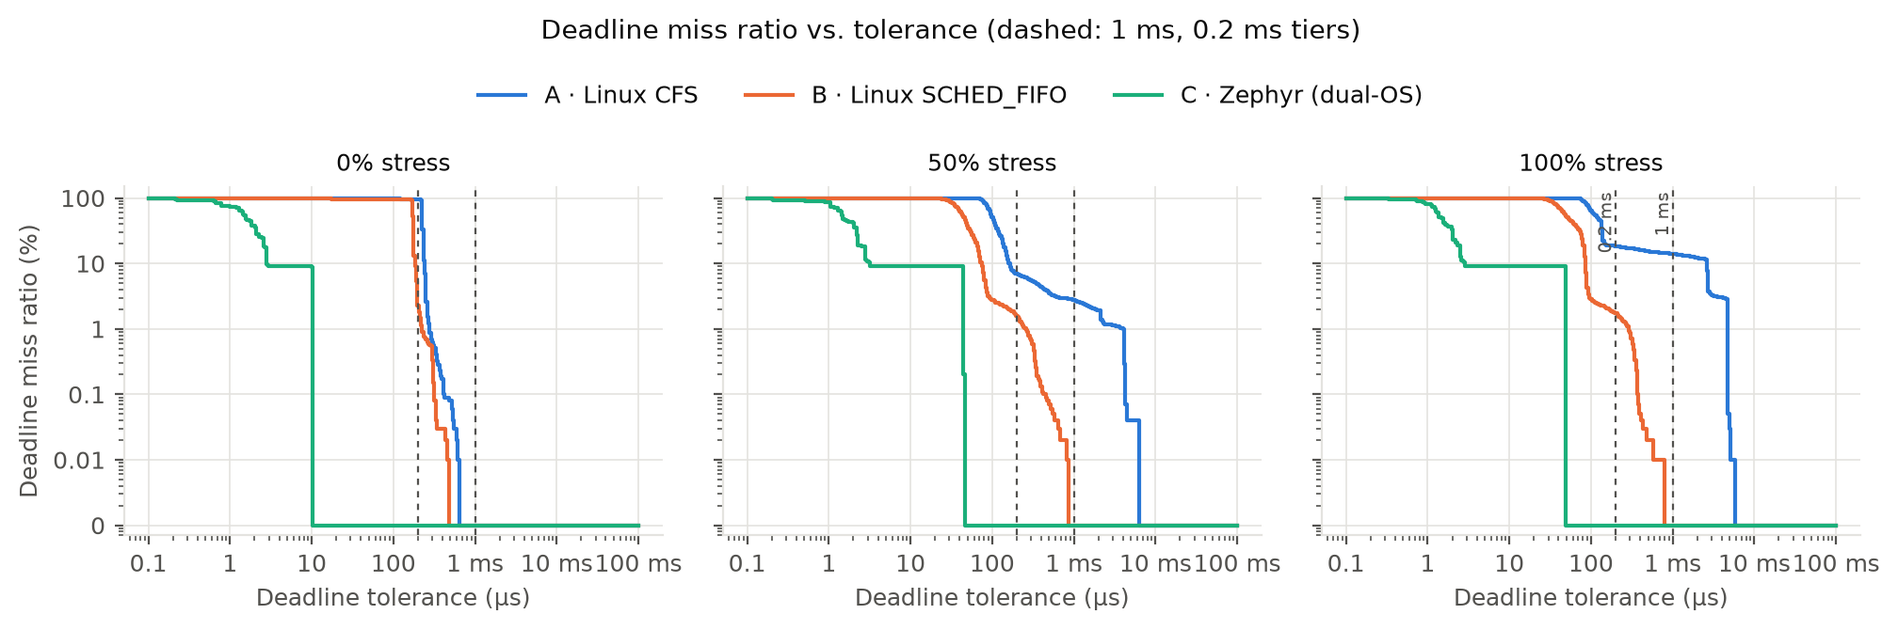
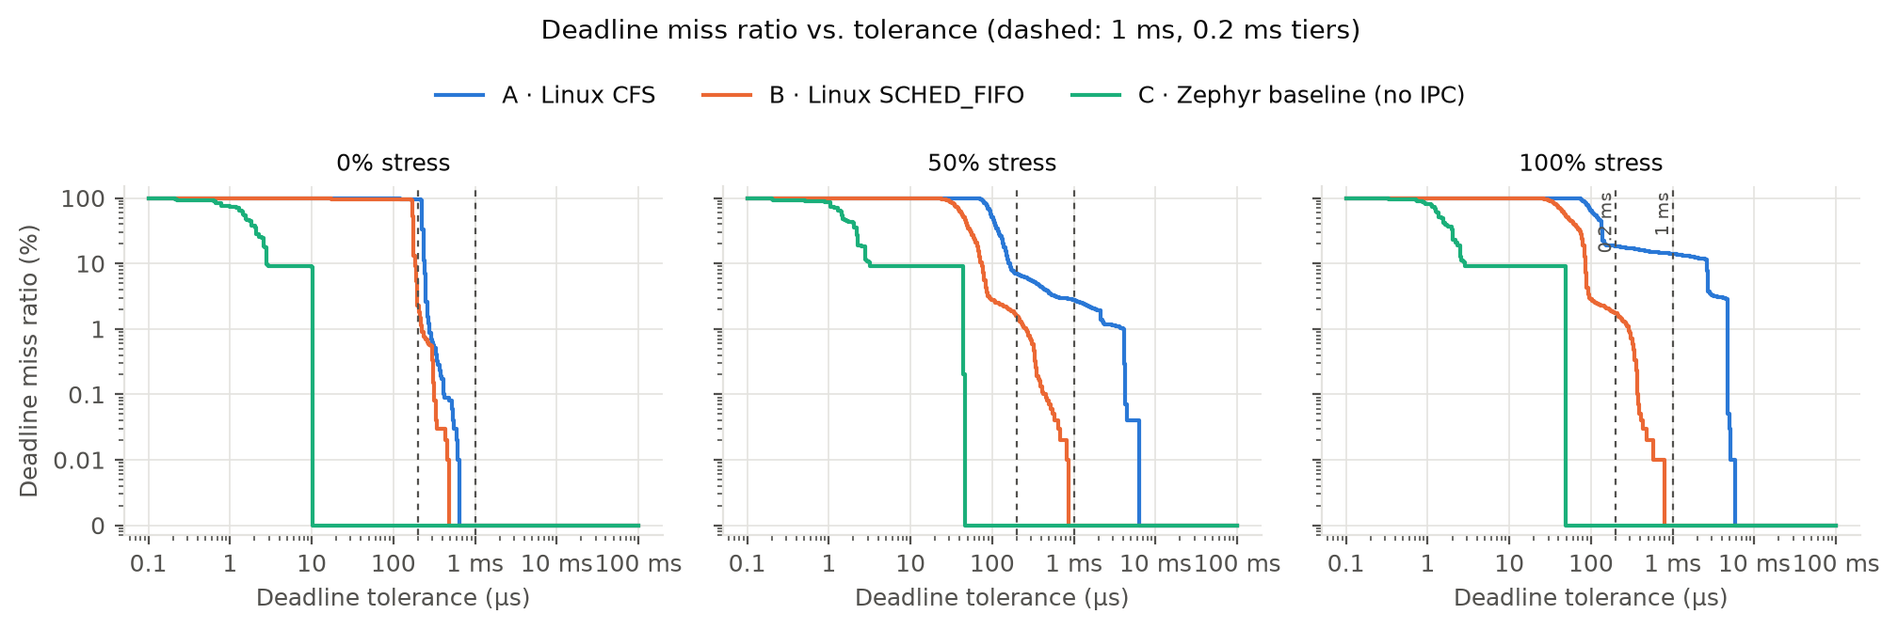
docs: apply M2 review fixes; regenerate summary with baseline label
- Week 4-6 report: dates (M2 Oct 27), WCL tier attribution, drop p99.99
  and the 50 us tier, idle-vs-load effect, Test 4 caveat, comparability
  note for Config C lateness, referee clock and resolution caveats
- Scope statement: milestone due dates moved one week
- results/summary.md and plots regenerated with
  analyze_latency.py --clock-hz 160e6 (numbers unchanged, new C label)
- analysis README: document the command that reproduces the summary

Changed region(s): [[0.2188, 0.1194, 0.7812, 0.1791]]

diff --git a/docs/Week_04_06_Progress_Report.md b/docs/Week_04_06_Progress_Report.md
@@ -4,7 +4,7 @@
 **Author / Lab Lead:** Quang-Huy Nguyen  
 **Sprint Window:** Weeks 4–6 (Sep 30 – Oct 20, 2026)  
 **Execution Date:** October 10–18, 2026  
-**Target Milestone:** Milestone 2: Formal Written Progress Report (Due Oct 20, 2026)
+**Target Milestone:** Milestone 2: Formal Written Progress Report (Due Oct 27, 2026; moved from Oct 20)
 
 ---
 
@@ -12,7 +12,7 @@
 
 During Weeks 4–6, physical hardware bring-up, asymmetric dual-threaded benchmarking, and high-precision dual-perspective real-time metrology were executed on the **Arduino UNO Q** platform. All objectives assigned to Huy under **Phase 2 (Tasks P2.1 – P2.10)** in the Project Scope Statement were successfully achieved ahead of the Milestone 2 deadline.
 
-To achieve peer-review-grade statistical significance and capture tail latencies up to $p99.99$ as well as kernel background flush events (`dirty_writeback_centisecs`), all experimental trials were scaled to **$10,000\text{ continuous cycles}$ ($100.0\text{ seconds}$ unbroken execution per trial)** across Configurations A and B and the **Config C baseline (no IPC)**, each at 0%, 50%, and 100% stress (9 runs), logging a total of **$90,000\text{ cycles}$ from live physical hardware**. The Linux→MCU IPC path of the full Config C is scheduled for Phase 5.
+To capture rare tail events such as kernel background flushes (`dirty_writeback_centisecs`), all experimental trials were scaled to **$10,000\text{ continuous cycles}$ ($100.0\text{ seconds}$ unbroken execution per trial)** across Configurations A and B and the **Config C baseline (no IPC)**, each at 0%, 50%, and 100% stress (9 runs), logging a total of **$90,000\text{ cycles}$ from live physical hardware**. The Linux→MCU IPC path of the full Config C is scheduled for Phase 5.
 
 ### Key Milestones Achieved:
 1. **Physical Board Bring-Up & Dual-Threaded Architecture:**  
@@ -20,11 +20,11 @@ To achieve peer-review-grade statistical significance and capture tail latencies
 2. **Comprehensive Multi-Resource Industrial Benchmark (10,000 Cycles / Tier):**  
    Executed a unified industrial stress suite combining multi-worker CPU compute saturation, eMMC flash I/O, virtual memory paging pressure, and Core 0 affinity contention across 0% (Idle), 50% (Standard Load), and 100% (Maximum Storm) tiers.
 3. **Decisive Empirical Contrast Across 3 OS Architectures:**  
-   - **Config A (Standard Linux CFS):** Suffered severe real-time collapse under storm contention, with tail lateness $p99.9$ reaching **4.700 ms**, worst-case lateness exploding to **6.120 ms** ($> 6\times$ deadline), and deadline misses surging to **13.91% DMR (1,391 / 10,000 misses)** under the 1.0 ms industrial threshold. Under tight 0.2 ms tolerance, **96.93%** of cycles missed the deadline even when completely idle.
+   - **Config A (Standard Linux CFS):** Degraded severely under load. At 100% stress, tail lateness $p99.9$ reached **4.700 ms** and deadline misses rose to **13.91% DMR (1,391 / 10,000 misses)** under the 1.0 ms threshold. Worst-case lateness peaked at **6.120 ms** in the 50% tier ($> 6\times$ the 1.0 ms tolerance; 5.805 ms at 100%). Under the tighter 0.2 ms tolerance, **96.93%** of cycles missed even at idle (see §6.5 for why idle is slower than loaded).
    - **Config B (Linux `SCHED_FIFO` 90 + `mlockall`):** Bounded peak lateness to **0.865 ms** with strictly **0.00% DMR (0 / 30,000 misses)** across all stress tiers under the 1.0 ms threshold.
-   - **Config C baseline (Zephyr-based MCU loop on the STM32, no IPC yet):** Mean lateness of **2.29–5.70 µs**, worst-case lateness of at most **49.08 µs**, and **0.00% DMR** under both 1.0 ms and 0.2 ms tolerances, even while the Linux MPU ran the 100% storm. Linux stress still raised the MCU's worst case about 5× (10.3 → 49.1 µs), so isolation is strong but not total. No setpoints crossed the Linux→MCU link during these runs; that is Phase 5.
+   - **Config C baseline (Zephyr-based MCU loop on the STM32, no IPC yet):** Mean lateness of **2.29–5.70 µs** (measured from the best cycle, so not comparable with the A/B means; see §5.1), worst-case lateness of at most **49.08 µs**, and **0.00% DMR** under both 1.0 ms and 0.2 ms tolerances, even while the Linux MPU ran the 100% storm. Linux stress still raised the MCU's worst case about 5× (10.3 → 49.1 µs), so isolation is strong but not total. No setpoints crossed the Linux→MCU link during these runs; that is Phase 5.
 4. **Dual-Perspective Hardware Referee Metrology:**  
-   Configured a second physical Arduino UNO Q as an independent **Hardware Referee** running a dedicated 160 MHz STM32 EXTI interrupt service routine on pin D2. Captured 10,000 physical pulses per stress tier with zero missed pulses. The referee's period measurements agree with the internal DWT timestamps after accounting for a constant ≈390 ppm offset between the two boards' clocks (§7.3).
+   Configured a second physical Arduino UNO Q as an independent **Hardware Referee** running a dedicated 160 MHz STM32 EXTI interrupt service routine on pin D2. Captured 10,000 physical pulses per stress tier with zero missed pulses. The referee's periods differ from the internal DWT periods by a constant ≈390 ppm. This was first attributed to the two boards' clocks, but the referee timestamps with a Zephyr counter that loses cycles while the chip sleeps, so much of the offset may be the referee's own loss (§7.3). The referee is being moved to DWT timestamps.
 
 ---
 
@@ -117,7 +117,7 @@ To ensure statistical significance, eliminate transient initialization anomalies
 
 1. **Repetitions & Sample Sizes per Trial:**
    - **Full Industrial Matrix:** Each experimental condition was evaluated across **$N = 10,000\text{ consecutive cycles}$** ($100.0\text{ seconds}$ unbroken continuous run at $10.0\text{ ms}$ tick cadence). Across the 9 primary runs (Configs A and B and the Config C baseline without IPC, $\times$ 3 stress tiers), a total of **$90,000\text{ discrete actuation cycles}$** were logged from live physical hardware.
-   - **Kernel Background Events:** The $100\text{-second}$ window is critical because Linux dirty page flush cycles (`dirty_writeback_centisecs`) trigger every 5–30 seconds; 10,000 cycles ensure that background kernel flush spikes are fully captured in tail latency ($p99.9$ and $p99.99$).
+   - **Kernel Background Events:** The $100\text{-second}$ window is critical because Linux dirty page flush cycles (`dirty_writeback_centisecs`) trigger every 5–30 seconds; 10,000 cycles span several such flush periods, so their spikes appear in the tail statistics. With one 10,000-cycle run per condition, $p99.9$ rests on about 10 samples, and $p99.99$ would be just the single maximum, so it is not reported.
 2. **Stress Schedulers & Stabilization Lead Time:**
    - For every stressed trial (50% and 100%), background `stress-ng` worker processes were initialized with a mandatory **$3.0\text{-second}$ pre-run stabilization window** before starting timer telemetry. This ensured that thread creation overhead, file allocation on eMMC, and memory page population reached full steady-state saturation prior to timing acquisition.
 3. **Inter-Test Cooldown:**
@@ -147,6 +147,8 @@ All experiments were executed on physical hardware (**Arduino UNO Q Qualcomm Cor
 | **Config C baseline (no IPC)** | **100% (Storm)** | 0.006 ms | **0.049 ms** | 0.049 ms | 0.013 ms | **0.00%** | **0 / 10,000** | n/a | n/a |
 
 *(Statistical post-processing generated via `benchmarks/analysis/analyze_latency.py`; summary table archived in `results/summary.md`; raw telemetry logs archived in `results/raw/[ABC]_*.csv`). `ru_nivcsw` and `ru_minflt` are process-wide counts (`getrusage(RUSAGE_SELF)`) covering both threads, not Thread 1 alone; they do not exist on the MCU and were not measured for Config C.*
+
+*Comparability: A/B lateness is absolute, measured against the real schedule $R_k$ with `CLOCK_MONOTONIC`. Config C lateness is wake-only: it is measured from the best cycle after fitting the period (+545.5 ppm, see §7.3), so it is a lower bound and its mean is not comparable with the A/B means. Compare jitter ($\sigma_L$), $P_{99.9}$ and worst-case lateness across platforms, not mean lateness.*
 
 ### 5.2 Industrial Precision Tolerance Sensitivity Breakdown ($1.0\text{ ms}$ vs $0.5\text{ ms}$ vs $0.2\text{ ms}$)
 
@@ -199,15 +201,16 @@ The following IEEE-formatted figures illustrate the empirical distributions acro
 ### 6.3 Virtual Memory Locking (`mlockall`)
 - In Linux, default dynamic memory allocation (`malloc`) uses demand paging: physical RAM pages are only allocated on first write, triggering a **Minor Page Fault (`ru_minflt`)**.
 - Config B calls `mlockall(MCL_CURRENT | MCL_FUTURE)` and prefaults the telemetry buffer at startup, so its pages stay in physical RAM.
-- In the main matrix, the process-wide `ru_minflt` count was 1–2 for both Config A and Config B, so these runs show no page-fault difference between them. Test 4 (`test4_memory_no_mlock.csv` vs. `test4_memory_with_mlock.csv`) is the experiment that isolates the effect of memory locking.
+- In the main matrix, the process-wide `ru_minflt` count was 1–2 for both Config A and Config B, so these runs show no page-fault difference between them. Test 4 (`test4_memory_no_mlock.csv` vs. `test4_memory_with_mlock.csv`) was meant to isolate the effect of memory locking, but it points the opposite way: with `mlockall` the mean lateness is 413 µs and 81% of cycles exceed 0.2 ms, without it 208 µs and 46% (2,000 cycles each). Either the test setup does not isolate memory locking, or this is a real effect. Until it is understood, Test 4 is not used as evidence for `mlockall`.
 
 ### 6.4 CPU Frequency Control (Design Choice)
 - Under the default `schedutil` governor, the kernel changes CPU frequency with load (e.g. to lower operating points such as 1.3 GHz on this chip), and each frequency change can add wake-up delay.
 - To remove this variable, the harness locks all 4 Cortex-A53 cores to the **`performance` governor at 2.016 GHz** before every run, so all stress tiers run at the same clock frequency. This is a design choice, not a measured result: no runs were made under `schedutil`, so its effect on lateness was not quantified here. The governor does not control CPU idle states (cpuidle), so idle-state exit latency may still contribute to jitter.
 
-### 6.5 The 200–300 µs Jitter Floor of Stock Linux
+### 6.5 The 0.2 ms Boundary of `SCHED_FIFO` on Stock Linux
 - While `SCHED_FIFO` achieved 0.00% DMR under the coarse 1.0 ms tolerance, evaluating it at a high-precision industrial threshold ($200\text{ }\mu\text{s} = 0.20\text{ ms}$) revealed **155–194 deadline misses (~1.5–1.9% DMR)**.
-- **Likely causes (not traced in these runs):** the stock kernel (`PREEMPT`, not `PREEMPT_RT`) has non-preemptible sections such as driver spinlocks and interrupt-disabled regions (`local_irq_disable`), plus shared L2 cache contention, none of which `SCHED_FIFO` can bypass. Confirming this would need kernel tracing (e.g. `ftrace`).
+- **Idle is slower than loaded.** Median lateness at 0% stress is 224 µs (A) and 171 µs (B). Under load, B drops to 44.5 µs (50%) and 51.0 µs (100%), and Tests 3 and 5 (Config B under a CPU-only load, `stress-ng --cpu 4`) show medians of 36–43 µs. This is why 97% of Config A's idle cycles miss 0.2 ms, and why B misses 1.94% at idle. The likely cause is wake-up from deep CPU idle states when nothing keeps the core busy (§6.4: the governor fixes the frequency, not the idle states). Not yet confirmed; a check would be to re-run B at 0% with deep idle states disabled (e.g. holding `/dev/cpu_dma_latency` at 0).
+- **Likely causes under load (not traced in these runs):** B still misses 0.2 ms in 1.55–1.73% of cycles at 50/100% stress. The stock kernel (`PREEMPT`, not `PREEMPT_RT`) has non-preemptible sections such as driver spinlocks and interrupt-disabled regions (`local_irq_disable`), plus shared L2 cache contention, none of which `SCHED_FIFO` can bypass. Confirming this would need kernel tracing (e.g. `ftrace`). At idle, the idle-state effect above weakens this explanation.
 - **Conclusion:** on this stock kernel, `SCHED_FIFO` meets a 1.0 ms tolerance but not a 0.2 ms one. A `PREEMPT_RT` kernel was not tested and might narrow this gap.
 
 ---
@@ -238,7 +241,7 @@ a dual-perspective measurement methodology was deployed using a second physical 
 
 ### 7.1 Methodological Framework: Why Both DWT and Referee Are Mandatory
 1. **The Internal Perspective (`DWT->CYCCNT` on Board 1):**  
-   Reads the ARM Cortex-M33 Data Watchpoint and Trace hardware cycle register at $160\text{ MHz}$ ($6.25\text{ ns}$ resolution) in a single assembly instruction (`LDR`). This measures **genuine RTOS task scheduling lateness** without I/O bus latency, providing direct methodological parity with Linux `clock_gettime(CLOCK_MONOTONIC)` in Configs A and B.
+   Reads the ARM Cortex-M33 Data Watchpoint and Trace hardware cycle register at $160\text{ MHz}$ ($6.25\text{ ns}$ resolution) in a single assembly instruction (`LDR`). This measures **RTOS task scheduling lateness** without I/O bus latency. Like `clock_gettime(CLOCK_MONOTONIC)` in Configs A and B, it is an in-loop timestamp buffered in RAM, but the lateness definitions differ: A/B lateness is absolute against the real schedule, while Config C lateness is measured from the best cycle after fitting the period. Only jitter, $P_{99.9}$ and worst-case lateness are compared across platforms (§5.1 note).
 2. **The External Perspective (Hardware Referee on Board 2):**  
    Captures physical voltage transitions on pin `D2` using a dedicated interrupt (`EXTI3` configured at highest NVIC priority 0). Being a separate board with its own clock, it gives an independent view of when the pulses physically appear on the pin. Its oscillator is not calibrated either, so its measurements are relative to its own clock, not to true time.
 3. **Mutual Validation (Cross-Correlation):**  
@@ -247,7 +250,9 @@ a dual-perspective measurement methodology was deployed using a second physical 
 ### 7.2 Hardware Hardening: Resolving the 26.84-Second Rollover & ISR Race Conditions
 On the STM32U585 core at $160\text{ MHz}$, the 32-bit hardware cycle register overflows every:
 $$\tau_{\text{rollover}} = \frac{2^{32}}{160 \times 10^6} \approx 26.843545\text{ seconds}$$
-Standard Arduino `micros()` wraps at this threshold, introducing modulo division artifacts. To guarantee uninterrupted data fidelity, the Referee firmware was hardened to sample `k_cycle_get_32()` directly and compute $\Delta \text{cycles} = (\text{now} - \text{last}) \pmod{2^{32}}$ using native unsigned 32-bit arithmetic before microsecond scaling, completely eliminating rollover discontinuities. Furthermore, `Bridge.update()` was silenced during active acquisition to prevent serial `irq_lock()` from perturbing edge capture, with an atomic millisecond idle timeout ensuring zero race conditions between the ISR and main loop.
+Standard Arduino `micros()` wraps at this threshold, introducing modulo division artifacts. To guarantee uninterrupted data fidelity, the Referee firmware was hardened to sample `k_cycle_get_32()` directly and compute $\Delta \text{cycles} = (\text{now} - \text{last}) \pmod{2^{32}}$ using native unsigned 32-bit arithmetic before microsecond scaling, completely eliminating rollover discontinuities. Furthermore, `Bridge.update()` was silenced in `loop()` during active acquisition to reduce serial `irq_lock()` perturbation of edge capture, with an atomic millisecond idle timeout to resume it.
+
+**Correction (review, Oct 2026):** two limits of this design were found after the runs. (1) `k_cycle_get_32()` is Zephyr's cycle counter, which our clock diagnostics show losing ≈508 ppm while the chip sleeps, and the referee does sleep during capture: after each `loop()` pass the RouterBridge library runs `update_safe()`, which sleeps 1 ms when no request is waiting, and its own bridge thread keeps polling. (2) The referee stores whole microseconds (`delta_cyc / 160`, truncated), so it cannot confirm microsecond-level jitter. The referee is being changed to timestamp with the DWT cycle counter and store raw cycles.
 
 ### 7.3 Definitive 10,000-Cycle Dual-Perspective Empirical Results ($N = 9,999$ Periodic Cycles)
 
@@ -256,14 +261,15 @@ The physical cross-validation benchmark was conducted across systematic hardware
 | Telemetry Metric | Config C Baseline (0% Stress) | Config C 50% Composite Load | Config C Storm (100% Linux Load) | Empirical Insight & Verification |
 | :--- | :---: | :---: | :---: | :--- |
 | **Internal DWT Mean Period** | $10.0055\text{ ms}$ | $10.0055\text{ ms}$ | $10.0055\text{ ms}$ | Same in every tier: 1,600,873 cycles (10,005.455 µs, +545.5 ppm vs. 10 ms). The loop is scheduled with `micros()`, and Zephyr's timekeeping drops cycles relative to DWT (≈508 ppm while asleep; clock diagnostics, 2026-10-19), so the loop really ran ≈10.0055 ms per cycle. About half of the 545 ppm is not yet explained. Jitter and WCL are unaffected (computed after fitting the period). |
-| **Internal DWT Mean Lateness** | **$2.291\text{ }\mu\text{s}$** | **$5.401\text{ }\mu\text{s}$** | **$5.702\text{ }\mu\text{s}$** | Sub-microsecond task dispatch determinism on Cortex-M33. |
-| **Internal DWT Worst-Case Lateness** | **$10.325\text{ }\mu\text{s}$** | **$44.569\text{ }\mu\text{s}$** | **$49.082\text{ }\mu\text{s}$** | WCL strictly bounded $< 50\text{ }\mu\text{s}$ under 100% Linux storm. |
+| **Internal DWT Mean Lateness** | **$2.291\text{ }\mu\text{s}$** | **$5.401\text{ }\mu\text{s}$** | **$5.702\text{ }\mu\text{s}$** | A few microseconds on average, measured from the best cycle (not comparable with A/B means; §5.1 note). |
+| **Internal DWT Worst-Case Lateness** | **$10.325\text{ }\mu\text{s}$** | **$44.569\text{ }\mu\text{s}$** | **$49.082\text{ }\mu\text{s}$** | Below 50 µs in every tier (49.08 µs at 100% stress). Measured from the best cycle, so a lower bound on the true worst case. |
 | **External Referee Mean Period** | $10.0016\text{ ms}$ | $10.0016\text{ ms}$ | $10.0015\text{ ms}$ | Pin period as counted by the referee's own clock. |
-| **Referee Period vs. 10 ms** | $+1.56\text{ }\mu\text{s/cyc}$ ($+155.5\text{ ppm}$) | $+1.58\text{ }\mu\text{s/cyc}$ ($+158.5\text{ ppm}$) | $+1.52\text{ }\mu\text{s/cyc}$ ($+151.7\text{ ppm}$) | Combination of the DUT's timekeeping loss (+545 ppm) and the offset between the two boards' clocks (≈390 ppm). Both boards use internal RC oscillators; this is not a crystal drift. |
-| **DWT − Referee Period (per cycle)** | $3.6\text{–}4.4\text{ }\mu\text{s}$ | $3.4\text{–}4.2\text{ }\mu\text{s}$ | $3.4\text{–}4.3\text{ }\mu\text{s}$ | Offset between the two boards' clocks (≈390 ppm). A constant pin or interrupt delay cancels out in a period difference, so this does not measure GPIO or EXTI latency. |
+| **Referee Period vs. 10 ms** | $+1.56\text{ }\mu\text{s/cyc}$ ($+155.5\text{ ppm}$) | $+1.58\text{ }\mu\text{s/cyc}$ ($+158.5\text{ ppm}$) | $+1.52\text{ }\mu\text{s/cyc}$ ($+151.7\text{ ppm}$) | Arithmetic combination of the DUT's timekeeping loss (+545 ppm) and the ≈390 ppm DWT−referee difference (next row). Both boards use internal RC oscillators; this is not a crystal drift. |
+| **DWT − Referee Period (per cycle)** | $3.6\text{–}4.4\text{ }\mu\text{s}$ | $3.4\text{–}4.2\text{ }\mu\text{s}$ | $3.4\text{–}4.3\text{ }\mu\text{s}$ | ≈390 ppm between the DUT's DWT counter and the referee's `k_cycle_get_32()` counter. Not yet separated into the boards' clock offset and the referee's own lost cycles (up to ≈508 ppm while asleep; §7.2 correction); the DWT-based referee will tell them apart. A constant pin or interrupt delay cancels out in a period difference, so this does not measure GPIO or EXTI latency. |
 | **Deadline Miss Ratio (DMR @ 1.0 ms)** | **$0.00\%$** (0 / 9,999) | **$0.00\%$** (0 / 9,999) | **$0.00\%$** (0 / 9,999) | Zero deadline misses under full system contention. |
 | **Deadline Miss Ratio (DMR @ 0.2 ms)** | **$0.00\%$** (0 / 9,999) | **$0.00\%$** (0 / 9,999) | **$0.00\%$** (0 / 9,999) | Zero misses at high-precision $200\text{ }\mu\text{s}$ industrial tolerance. |
-| **Deadline Miss Ratio (DMR @ 50 µs)** | **$0.00\%$** (0 / 9,999) | **$0.00\%$** (0 / 9,999) | **$0.00\%$** (0 / 9,999) | Zero misses at extreme sub-millisecond threshold. |
+
+A 50 µs tier is not claimed: the worst case (49.08 µs) is only 0.9 µs below it and is a lower bound, measured from the best cycle after fitting the period. The referee's whole-microsecond intervals cannot confirm timing at this level either (§7.2 correction).
 
 ### 7.4 Architectural Synthesis: The 3-Way Comparative Contrast
 
@@ -279,7 +285,7 @@ Comparing the Config C baseline (no IPC) with Configs A and B under maximum stre
 | **Effect of Linux Stress (WCL, 0% → worst tier)** | ❌ Large (0.634 → 6.120 ms) | ⚠ Moderate (0.478 → 0.865 ms) | ✅ Small (10.3 → 49.1 µs, 0 misses) |
 
 > **Key Architectural Conclusion:**  
-> While POSIX real-time (`SCHED_FIFO` 90) successfully bounds coarse millisecond delays, on the stock kernel it shows a **$200\text{–}300\text{ }\mu\text{s}$ jitter floor**, likely from non-preemptible kernel sections (not traced in these runs).  
+> While POSIX real-time (`SCHED_FIFO` 90) successfully bounds coarse millisecond delays, on the stock kernel it still misses a 0.2 ms tolerance in 1.5–1.9% of cycles. At idle this is likely CPU idle-state wake-up; under load the cause is not yet traced (candidate: non-preemptible kernel sections; §6.5).  
 > **The Config C baseline (no IPC) stays well below this floor**, with worst-case lateness of **$49.08\text{ }\mu\text{s}$** under 100% Linux stress. Linux stress still raised the MCU's worst case about 5× (from 10.3 µs at idle), so isolation is strong but not total. Whether this holds once setpoints flow over IPC is the Phase 5 question.
 
 ---
@@ -287,7 +293,7 @@ Comparing the Config C baseline (no IPC) with Configs A and B under maximum stre
 ## 8. Teammate Synchronization & Next Steps
 
 - **Huy (In-Lab Lead 🔧):**
-  - Phase 2 fully completed ahead of Milestone 2 deadline (Oct 20, 2026).
+  - Phase 2 fully completed ahead of Milestone 2 deadline (Oct 27, 2026).
   - Scaled the benchmark matrix to 10,000 cycles across all 9 runs (Configs A and B, plus the Config C baseline without IPC; $90,000\text{ cycles}$).
   - Dual-perspective hardware referee metrology validated with 10,000 physical pulse cross-correlation.
   - Ingested raw telemetry into post-processor, generated all 4 IEEE figures, and pushed to `feature/phase2-linux-benchmark`.

diff --git a/docs/Project_Scope_Statement.md b/docs/Project_Scope_Statement.md
@@ -209,9 +209,10 @@ All timing is measured against an **absolute schedule**: cycle $k$ has release t
    - Latency distribution graphs (box plots and Cumulative Distribution Function curves) comparing the three configurations.
 3. **Course Deliverables & Academic Reports:**
    - **Milestone 1 (Sep 29):** 2-Page Project Proposal & Abstract + 5-10 min in-class presentation. ✅ **COMPLETED**
-   - **Milestone 2 (Oct 20):** Formal Written Progress Report describing environment setup and preliminary tests. ⏳ **Upcoming**
-   - **Milestone 3 (Nov 10):** 25-Minute In-Class Presentation and live/recorded demo. ⏳ **Upcoming**
-   - **Milestone 4 (Dec 29):** Final Written Report (up to 15 pages in IEEE format), codebase, and role breakdown. ⏳ **Upcoming**
+   - **Milestone 2 (Oct 27):** Formal Written Progress Report describing environment setup and preliminary tests. ⏳ **Upcoming**
+   - **Milestone 3 (Nov 17):** 25-Minute In-Class Presentation and live/recorded demo. ⏳ **Upcoming**
+   - **Milestone 4 (Jan 5, 2027):** Final Written Report (up to 15 pages in IEEE format), codebase, and role breakdown. ⏳ **Upcoming**
+   - *All milestone due dates moved one week (originally Oct 20 / Nov 10 / Dec 29). The phase windows in the WBS below are the original plan.*
 
 ### 6. High-Level Work Breakdown Structure (High-Level WBS)
 
@@ -243,7 +244,7 @@ The board (Arduino UNO Q) is located in Huy's lab. Akash works remotely from a s
 | P2.6 | Run Config B: RT-FIFO scheduling (`sudo chrt -f 90`) | Huy 🔧 | Yes | ✅ |
 | P2.7 | Evaluate both at 0% / 50% / 100% stress (commands in §4.3.3) | Huy 🔧 | Yes | ✅ |
 | P2.8 | Write shell scripts for automated stress test scenarios | Akash / Huy | Yes | ✅ |
-| P2.9 | Draft and submit **M2 Progress Report (Due Oct 20)** | Both | - | ⏳ In-Progress |
+| P2.9 | Draft and submit **M2 Progress Report (Due Oct 27)** | Both | - | ⏳ In-Progress |
 | | | | | |
 | **P3** | **Phase 3: Offline Model Training & Edge Deployment (Wk 4-6, Oct 1 - Oct 20, Parallel Track)** | | | |
 | | *Goal: Train 1D-CNN on CWRU dataset and export TFLite INT8 model* | | | |
@@ -269,7 +270,7 @@ The board (Arduino UNO Q) is located in Huy's lab. Akash works remotely from a s
 | P5.3 | Deploy both sides on board, run end-to-end integration tests | Huy 🔧 | Yes | |
 | P5.4 | Inject `stress-ng` on Linux, verify Zephyr actuation is immune | Huy 🔧 | Yes | |
 | P5.5 | Prepare 25-minute presentation slides (joint slide deck) | Both | - | |
-| P5.6 | Co-present and demo for **M3 (Due Nov 10)** | Both | Yes | |
+| P5.6 | Co-present and demo for **M3 (Due Nov 17)** | Both | Yes | |
 | | | | | |
 | **P6** | **Phase 6: Full-Scale Benchmarking & Statistical Evaluation (Wk 10-12, Nov 11 - Dec 6)** | | | |
 | | *Goal: Collect 10,000-cycle datasets across 9 test matrices for M4* | | | |
@@ -283,9 +284,9 @@ The board (Arduino UNO Q) is located in Huy's lab. Akash works remotely from a s
 | P7.2 | Write sections: model design, Zephyr RTOS theory, statistical analysis, conclusions | Akash 💻 | No | |
 | P7.3 | Cross-review each other's sections and unify writing style | Both | - | |
 | P7.4 | Clean and document code repository with test scripts and reproduction steps | Both | - | |
-| P7.5 | Document individual contributions, submit final package **M4 (Due Dec 29)** | Both | - | |
+| P7.5 | Document individual contributions, submit final package **M4 (Due Jan 5, 2027)** | Both | - | |
 
-> *Risk Mitigation Note: Because Phase 2 (Config A vs Config B) produces valid comparative OS data by Oct 20 (M2), the project already has tangible academic deliverables even while Zephyr/IPC integration is underway for M3.*
+> *Risk Mitigation Note: Because Phase 2 (Config A vs Config B) produces valid comparative OS data by M2 (Oct 27), the project already has tangible academic deliverables even while Zephyr/IPC integration is underway for M3.*
 
 ---
 
@@ -296,9 +297,9 @@ The project milestones are aligned with the official deadlines established in th
 | Milestone | Target Date | Status | Time Window | Contributing WBS Phases | Description & Major Deliverables | Primary Focus |
 | :---: | :---: | :---: | :---: | :---: | :--- | :--- |
 | **M1** | **Sep 29** | ✅ **COMPLETED** | Weeks 1 - 3 | **Phase 1 (P1)** | **Project Proposal & Abstract:** Submitted 2-page proposal and presented in class. | Problem definition, scope, and dual-OS concept |
-| **M2** | **Oct 20** | ⏳ **UPCOMING** | Weeks 4 - 6 | **Phase 2 (P2) & Phase 3 (P3)** | **Progress Report:** Submit formal written report detailing setup and preliminary results. | Platform bring-up, baseline benchmarks (Config A & B), and offline model |
-| **M3** | **Nov 10** | ⏳ **UPCOMING** | Weeks 7 - 9 | **Phase 4 (P4) & Phase 5 (P5)** | **Class Presentation & Demo:** Deliver 25-minute presentation and live/recorded demo. | Dual-OS integration (Config C), model inference, and stress evaluation |
-| **M4** | **Dec 29** | ⏳ **FINAL** | Weeks 10 - 16 | **Phase 6 (P6) & Phase 7 (P7)** | **Final Report Due:** Submit complete 15-page report in IEEE format, code repository, and roles. | In-depth OS analysis, complete 10k-cycle data, and documentation |
+| **M2** | **Oct 27** | ⏳ **UPCOMING** | Weeks 4 - 6 | **Phase 2 (P2) & Phase 3 (P3)** | **Progress Report:** Submit formal written report detailing setup and preliminary results. | Platform bring-up, baseline benchmarks (Config A & B), and offline model |
+| **M3** | **Nov 17** | ⏳ **UPCOMING** | Weeks 7 - 9 | **Phase 4 (P4) & Phase 5 (P5)** | **Class Presentation & Demo:** Deliver 25-minute presentation and live/recorded demo. | Dual-OS integration (Config C), model inference, and stress evaluation |
+| **M4** | **Jan 5, 2027** | ⏳ **FINAL** | Weeks 10 - 16 | **Phase 6 (P6) & Phase 7 (P7)** | **Final Report Due:** Submit complete 15-page report in IEEE format, code repository, and roles. | In-depth OS analysis, complete 10k-cycle data, and documentation |
 
 ---
 
@@ -332,6 +333,6 @@ The project will be considered successful when the following quantitative engine
   - *Mitigation:* Akash utilizes Zephyr's host emulator (`native_sim`, via WSL) and QEMU (`mps2/an521`) to write, build, and test Zephyr application logic locally before passing compiled binaries to Huy for hardware deployment.
 - **Hardware Corruption / Kernel Crash Risk:** Intensive stress testing (`stress-ng`) and direct hardware register access can cause OS crashes or filesystem corruption.
   - *Mitigation:* A golden backup image of the Debian filesystem is maintained on cloud storage, allowing full board re-flashing within 15 minutes.
-- **Contingency Schedule Buffer:** If dual-OS inter-processor communication setup takes longer than anticipated, Phase 2 (Config A vs Config B on Linux) provides complete, valid comparative operating systems data for Milestone 2 (Oct 20), guaranteeing that the team never misses an academic deadline.
+- **Contingency Schedule Buffer:** If dual-OS inter-processor communication setup takes longer than anticipated, Phase 2 (Config A vs Config B on Linux) provides complete, valid comparative operating systems data for Milestone 2 (Oct 27), guaranteeing that the team never misses an academic deadline.
 - **IPC Mechanism Uncertainty:** The exact inter-processor link between the QRB2210 (MPU) and STM32U585 (MCU) has not yet been verified on the physical board. It is expected to be a serial channel (UART or SPI) exposed through Arduino's Bridge/RPC layer, not shared RAM (since the two chips are separate packages). Task P2.1b is specifically allocated to investigate and document this during Phase 2.
   - *Mitigation:* The IPC protocol is designed as a lightweight "latest-value-wins" single-value serial message, which works identically over UART, SPI, or shared memory. Only the transport driver changes; the application logic and benchmark methodology remain the same regardless of the underlying channel.

diff --git a/results/summary.md b/results/summary.md
@@ -6,6 +6,6 @@
 | B · Linux SCHED_FIFO | 0% | 10,000 | 167.862 | 34.040 | 316.001 | 478.200 | 0.00% | 1.94% | 0 |
 | B · Linux SCHED_FIFO | 50% | 10,000 | 51.809 | 38.402 | 412.727 | 865.200 | 0.00% | 1.55% | 0 |
 | B · Linux SCHED_FIFO | 100% | 10,000 | 60.099 | 39.020 | 366.001 | 759.200 | 0.00% | 1.73% | 0 |
-| C · Zephyr (dual-OS) | 0% | 10,000 | 2.291 | 2.600 | 10.293 | 10.325 | 0.00% | 0.00% | 0 |
-| C · Zephyr (dual-OS) | 50% | 10,000 | 5.401 | 12.241 | 44.409 | 44.569 | 0.00% | 0.00% | 0 |
-| C · Zephyr (dual-OS) | 100% | 10,000 | 5.702 | 13.420 | 49.030 | 49.082 | 0.00% | 0.00% | 0 |
+| C · Zephyr baseline (no IPC) | 0% | 10,000 | 2.291 | 2.600 | 10.293 | 10.325 | 0.00% | 0.00% | 0 |
+| C · Zephyr baseline (no IPC) | 50% | 10,000 | 5.401 | 12.241 | 44.409 | 44.569 | 0.00% | 0.00% | 0 |
+| C · Zephyr baseline (no IPC) | 100% | 10,000 | 5.702 | 13.420 | 49.030 | 49.082 | 0.00% | 0.00% | 0 |

diff --git a/benchmarks/analysis/README.md b/benchmarks/analysis/README.md
@@ -5,8 +5,12 @@ KPIs defined in `docs/Project_Scope_Statement.md` §4.3.2 and the figures listed
 
 ```bash
 pip install -r benchmarks/analysis/requirements.txt
-python3 benchmarks/analysis/analyze_latency.py --warmup 2000 --max-cycles 10000
+python3 benchmarks/analysis/analyze_latency.py --clock-hz 160e6
 ```
+
+This is the command that reproduces the committed `results/summary.*` (all
+10,000 cycles per run, no warm-up trimmed). `--warmup N` and `--max-cycles N`
+are optional trimming and change the cycle counts in the summary.
 
 By default it reads `results/raw/*.csv` and writes `results/summary.csv`,
 `results/summary.md` and four figures under `results/plots/`.
